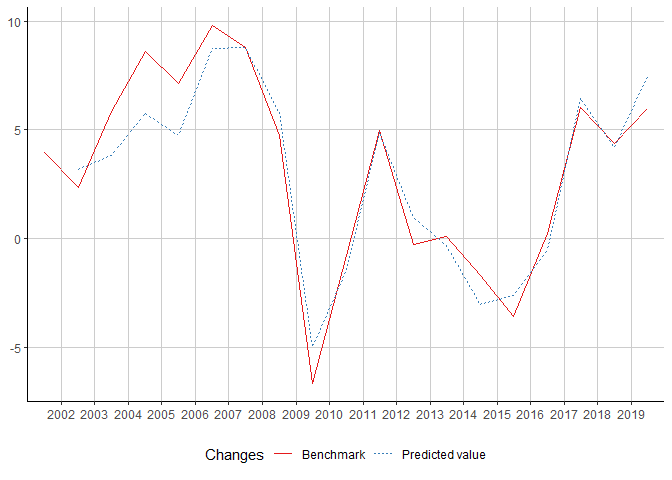
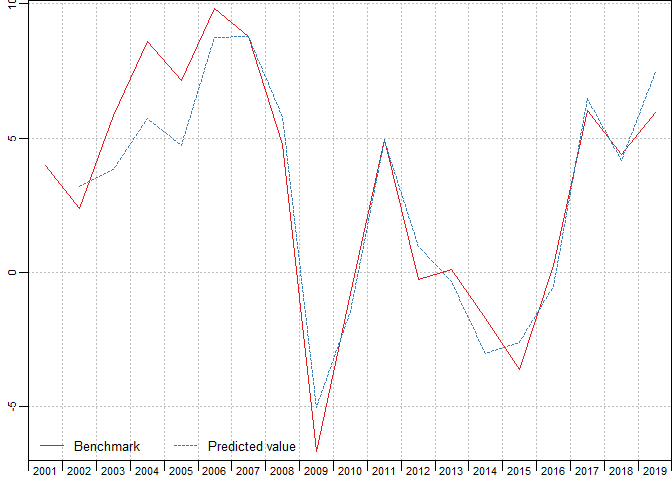
readme graphs

diff --git a/README.md b/README.md
@@ -47,16 +47,16 @@ benchmark <- twoStepsBenchmark(hfserie = turnover,
 as.ts(benchmark)
 coef(benchmark)
 summary(benchmark)
-autoplot(benchmark)
-autoplot(in_sample(benchmark))
+plot(benchmark)
+plot(in_sample(benchmark))
 ```
 
 <img src="man/figures/README-unnamed-chunk-4-1.png" width="50%" /><img src="man/figures/README-unnamed-chunk-4-2.png" width="50%" />
 
 ``` r
-autoplot(in_dicator(benchmark,type="changes"),
+plot(in_dicator(benchmark,type="changes"),
          start=c(2010,1),end=c(2019,12))
-autoplot(in_dicator(benchmark,type="contributions"),
+plot(in_dicator(benchmark,type="contributions"),
          start=c(2010,1),end=c(2019,12))
 ```
 
@@ -66,7 +66,7 @@ autoplot(in_dicator(benchmark,type="contributions"),
 new_benchmark <- twoStepsBenchmark(hfserie = turnover,
                                    lfserie = construction,
                                    include.differenciation = FALSE)
-autoplot(in_revisions(new_benchmark,
+plot(in_revisions(new_benchmark,
                       benchmark))
 ```
 
